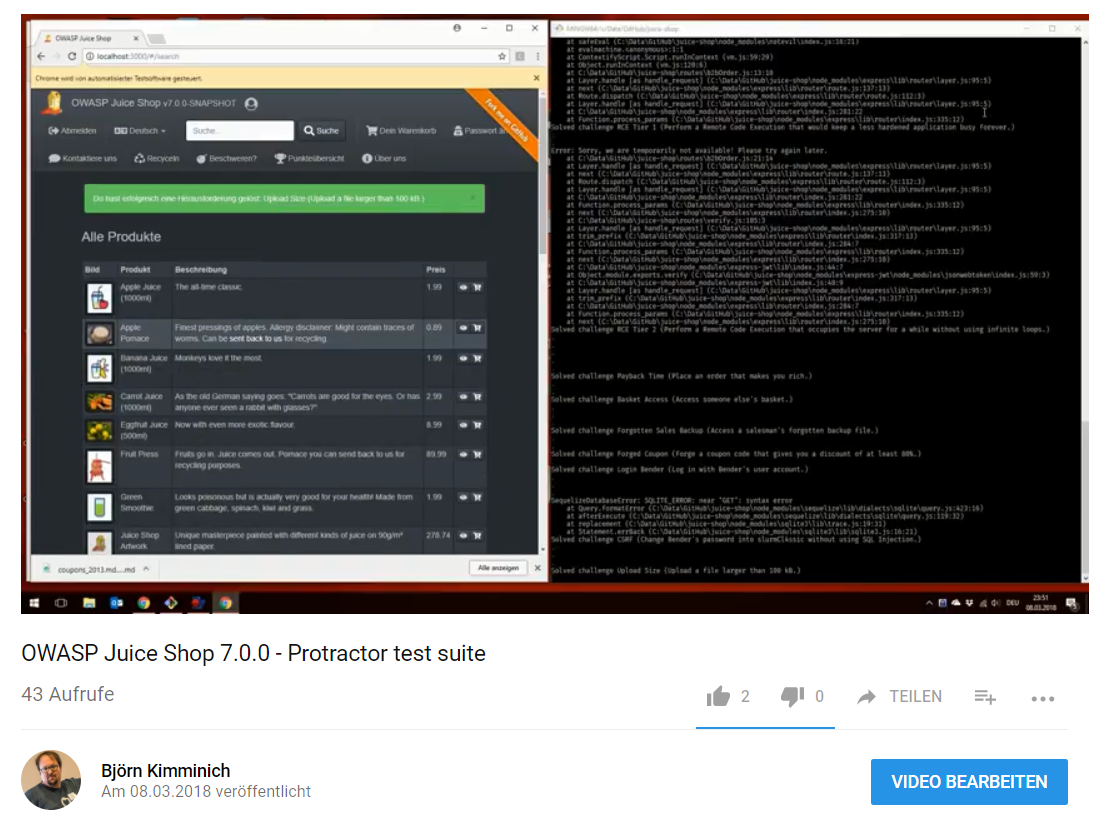
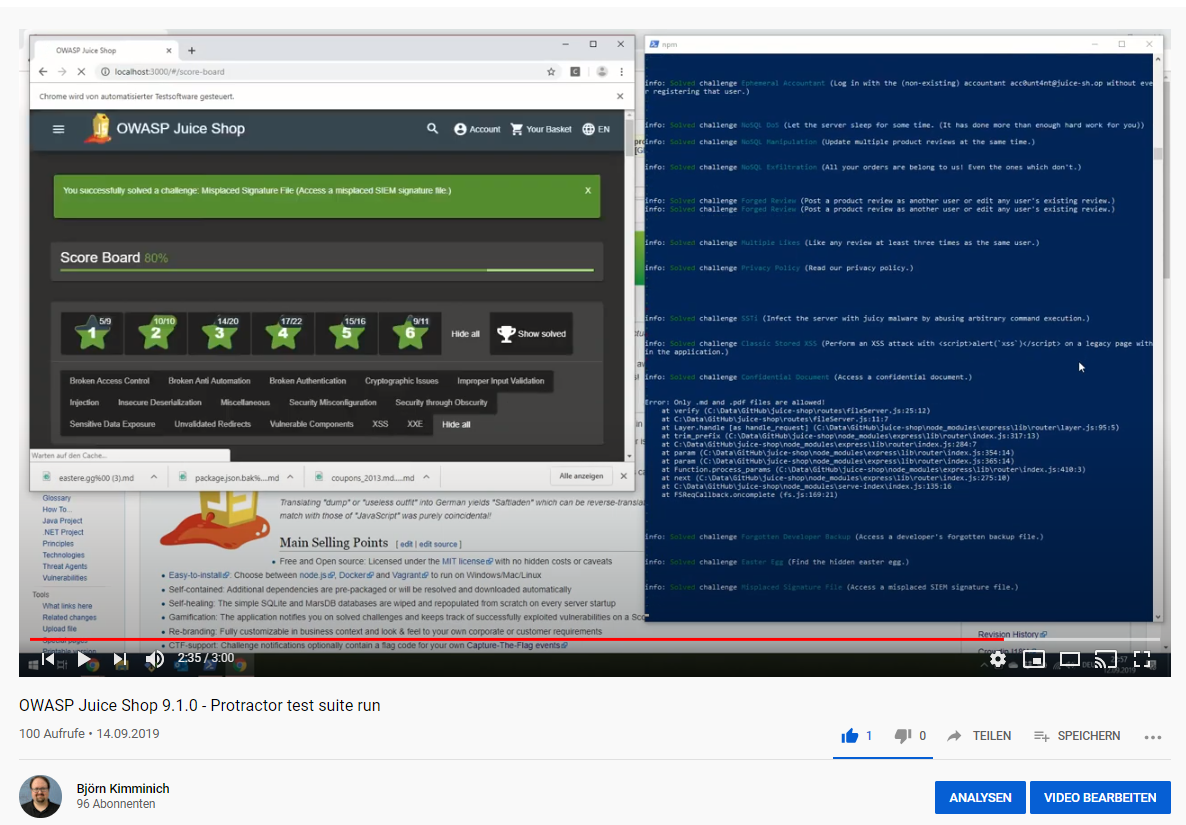
Update link to latest Protractor e2e suite run on YouTube
(which features v9.1.0, see https://youtu.be/9LkWOWiLZoc)

diff --git a/part3/codebase.md b/part3/codebase.md
@@ -19,9 +19,8 @@ it adapt nicely to different screen sizes. The various icons used
 throughout the frontend are from the vast
 [Font Awesome 5](https://fontawesome.com/) collection.
 
-ℹ Please note that **all client-side code is written
-in Typescript** which is compiled into regular JavaScript during the
-build process.
+ℹ Please note that **all client-side code is written in Typescript**
+which is compiled into regular JavaScript during the build process.
 
 ![Client tier focus](img/architecture-client.png)
 
@@ -124,12 +123,12 @@ tasks:
   the `getCaptcha()` function
 * `FeedbackService` to eventually `save()` the user feedback
 
-☝ As a universal rule for the entire Juice Shop codebase,
-unnecessary code duplication as well as deeply nested 🍝-code
-should be avoided by using well-named & small helper functions. This is
-demonstrated by the very simple `getNewCaptcha()` and `resetForm()`
-functions in the code snippet below. Helper functions should always be
-located as close to the calling code as possible.
+☝ As a universal rule for the entire Juice Shop codebase, unnecessary
+code duplication as well as deeply nested 🍝-code should be avoided by
+using well-named & small helper functions. This is demonstrated by the
+very simple `getNewCaptcha()` and `resetForm()` functions in the code
+snippet below. Helper functions should always be located as close to the
+calling code as possible.
 
 ```typescript
 import { FeedbackService } from '../Services/feedback.service'
@@ -225,10 +224,10 @@ export class ContactComponent implements OnInit {
 }
 ```
 
-🚨 Unit tests for all components can be found in their
-subfolders within `frontend/src/app/` as `*.component.spec.ts` files.
-They are [Jasmine 2](https://jasmine.github.io) specifications which are
-executed by the [Karma](https://karma-runner.github.io) test runner.
+🚨 Unit tests for all components can be found in their subfolders
+within `frontend/src/app/` as `*.component.spec.ts` files. They are
+[Jasmine 2](https://jasmine.github.io) specifications which are executed
+by the [Karma](https://karma-runner.github.io) test runner.
 
 ### Templates
 
@@ -260,6 +259,7 @@ associated styles in `contact.component.scss` - represents the entire
 _Contact Us_ screen.
 
 {% raw %}
+
 ```html
 <div fxLayoutAlign="center">
   <mat-card>
@@ -317,11 +317,11 @@ _Contact Us_ screen.
   </mat-card>
 </div>
 ```
+
 {% endraw %}
 
-ℹ In the entire Juice Shop code base, inline
-templates are **never** used. Templates must **always** be described in
-separate `.html` files.
+ℹ In the entire Juice Shop code base, inline templates are **never**
+used. Templates must **always** be described in separate `.html` files.
 
 ### Internationalization
 
@@ -358,12 +358,12 @@ process (launched with `npm install`) of the application. This creates
 an `frontend/dist/frontend` folder, which is the one actually delivered
 to the Browser to load all application-specific client-side code.
 
-ℹ If you want to quickly test client-side code
-changes, it can be cumbersome and slow to launch `npm install` over and
-over again. Instead you can use `npm run serve` to keep let Angular
-watch for client-code changes and recompile the affected parts on the
-fly. You usually not even have to manually refresh your browser with
-`F5` to see your changes.
+ℹ If you want to quickly test client-side code changes, it can be
+cumbersome and slow to launch `npm install` over and over again. Instead
+you can use `npm run serve` to keep let Angular watch for client-code
+changes and recompile the affected parts on the fly. You usually not
+even have to manually refresh your browser with `F5` to see your
+changes.
 
 ## Server Tier
 
@@ -372,15 +372,15 @@ application based on the [Express](http://expressjs.com) web framework.
 
 ![Server tier focus](img/architecture-server.png)
 
-ℹ On the server side all JavaScript code must be
-compliant to javascript (ES6) syntax.
+ℹ On the server side all JavaScript code must be compliant to
+javascript (ES6) syntax.
 
 ### Routes
 
 > Routing refers to determining how an application responds to a client
 > request to a particular endpoint, which is a URI (or path) and a
 > specific HTTP request method (GET, POST, and so on).
-> 
+>
 > Each route can have one or more handler functions, which are executed
 > when the route is matched.[^4]
 
@@ -401,17 +401,18 @@ and can be handled by any of the following middleware:
   * catching unhandled exceptions and presenting a default error screen
     (via `errorhandler`)
 
-🚨 Integration tests for all routes can be found in the
-`test/api` folder alongside all other API endpoint tests, from where
+🚨 Integration tests for all routes can be found in the `test/api`
+folder alongside all other API endpoint tests, from where
 [Frisby.js](https://www.frisbyjs.com/)/[Jest](https://facebook.github.io/jest/)
 assert the functionality of the entire backend on HTTP-request/response
 level.
 
 #### Generated API endpoints
 
-Juice Shop uses the [finale-rest](https://www.npmjs.com/package/finale-rest)
-middleware to automatically create REST endpoints for most of its
-Sequelize models. For e.g. the `User` model the generated endpoints are:
+Juice Shop uses the
+[finale-rest](https://www.npmjs.com/package/finale-rest) middleware to
+automatically create REST endpoints for most of its Sequelize models.
+For e.g. the `User` model the generated endpoints are:
 
 * `/api/Users` accepting
   * `GET` requests to retrieve all (or a filtered list of) user records
@@ -541,10 +542,10 @@ all hand-written endpoints can be used anonymously. The upcoming section
 [Access control on routes](#access-control-on-routes) explains the
 available authorization checks.
 
-🚨 Unit tests for hand-written routes can be found in the
-`test/server` folder. These tests are written using the
-[Chai](http://chaijs.com/) assertion library in conjunction with the
-[Mocha](https://mochajs.org/) test framework.
+🚨 Unit tests for hand-written routes can be found in the `test/server`
+folder. These tests are written using the [Chai](http://chaijs.com/)
+assertion library in conjunction with the [Mocha](https://mochajs.org/)
+test framework.
 
 #### Access control on routes
 
@@ -797,10 +798,10 @@ jump back and forth between attacked pages and the
 [Score Board](../part1/challenges.md#the-score-board) letting you watch
 as the difficulty stars and progress bar slowly fill and ever more green
 "solved"-badges appear. There is a
-[video recording of this on YouTube](https://www.youtube.com/watch?v=oiFUdZlS7zI)
-for the 7.0.0 release of the Juice Shop.
+[video recording of this on YouTube](https://youtu.be/9LkWOWiLZoc) for
+the 9.1.0 release of the Juice Shop.
 
-[![OWASP Juice Shop 7.0.0 - Protractor test suite](img/protractor-youtube.png)](https://www.youtube.com/watch?v=oiFUdZlS7zI)
+[![OWASP Juice Shop 9.1.0 - Protractor test suite](img/protractor-youtube.png)](https://youtu.be/9LkWOWiLZoc)
 
 These tests are written and executed with
 [Protractor](https://www.protractortest.org) which uses
